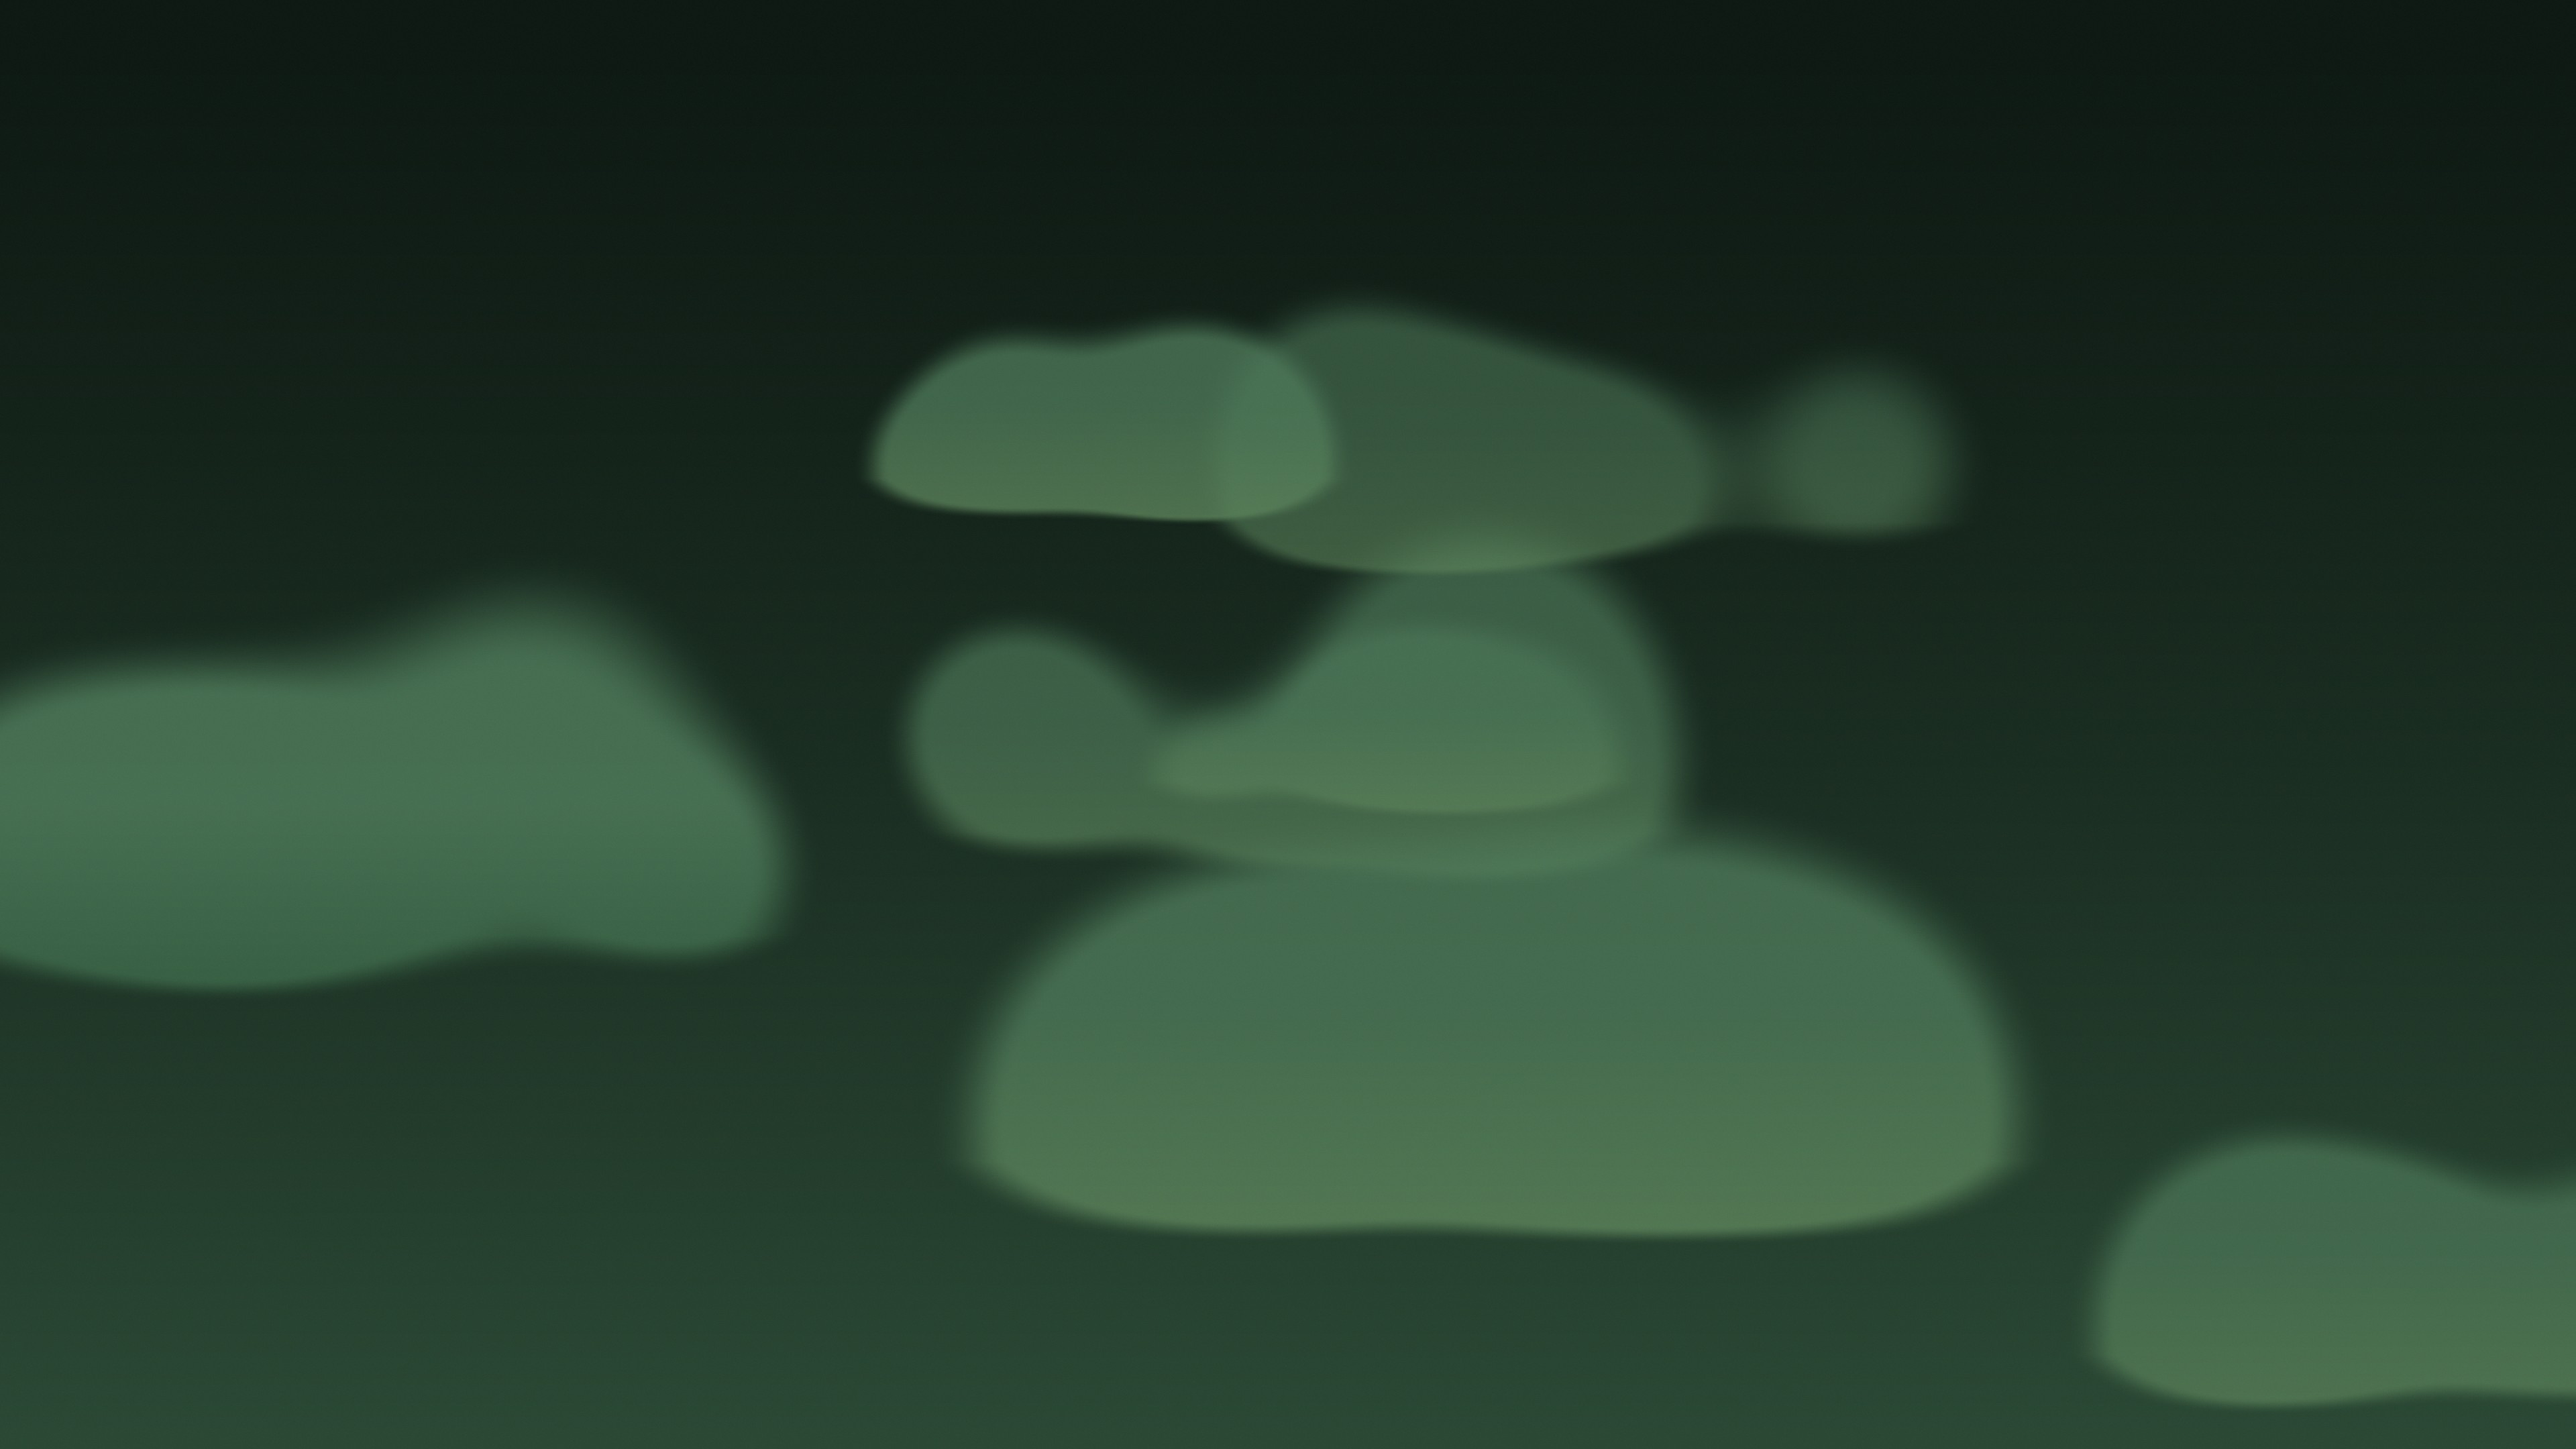
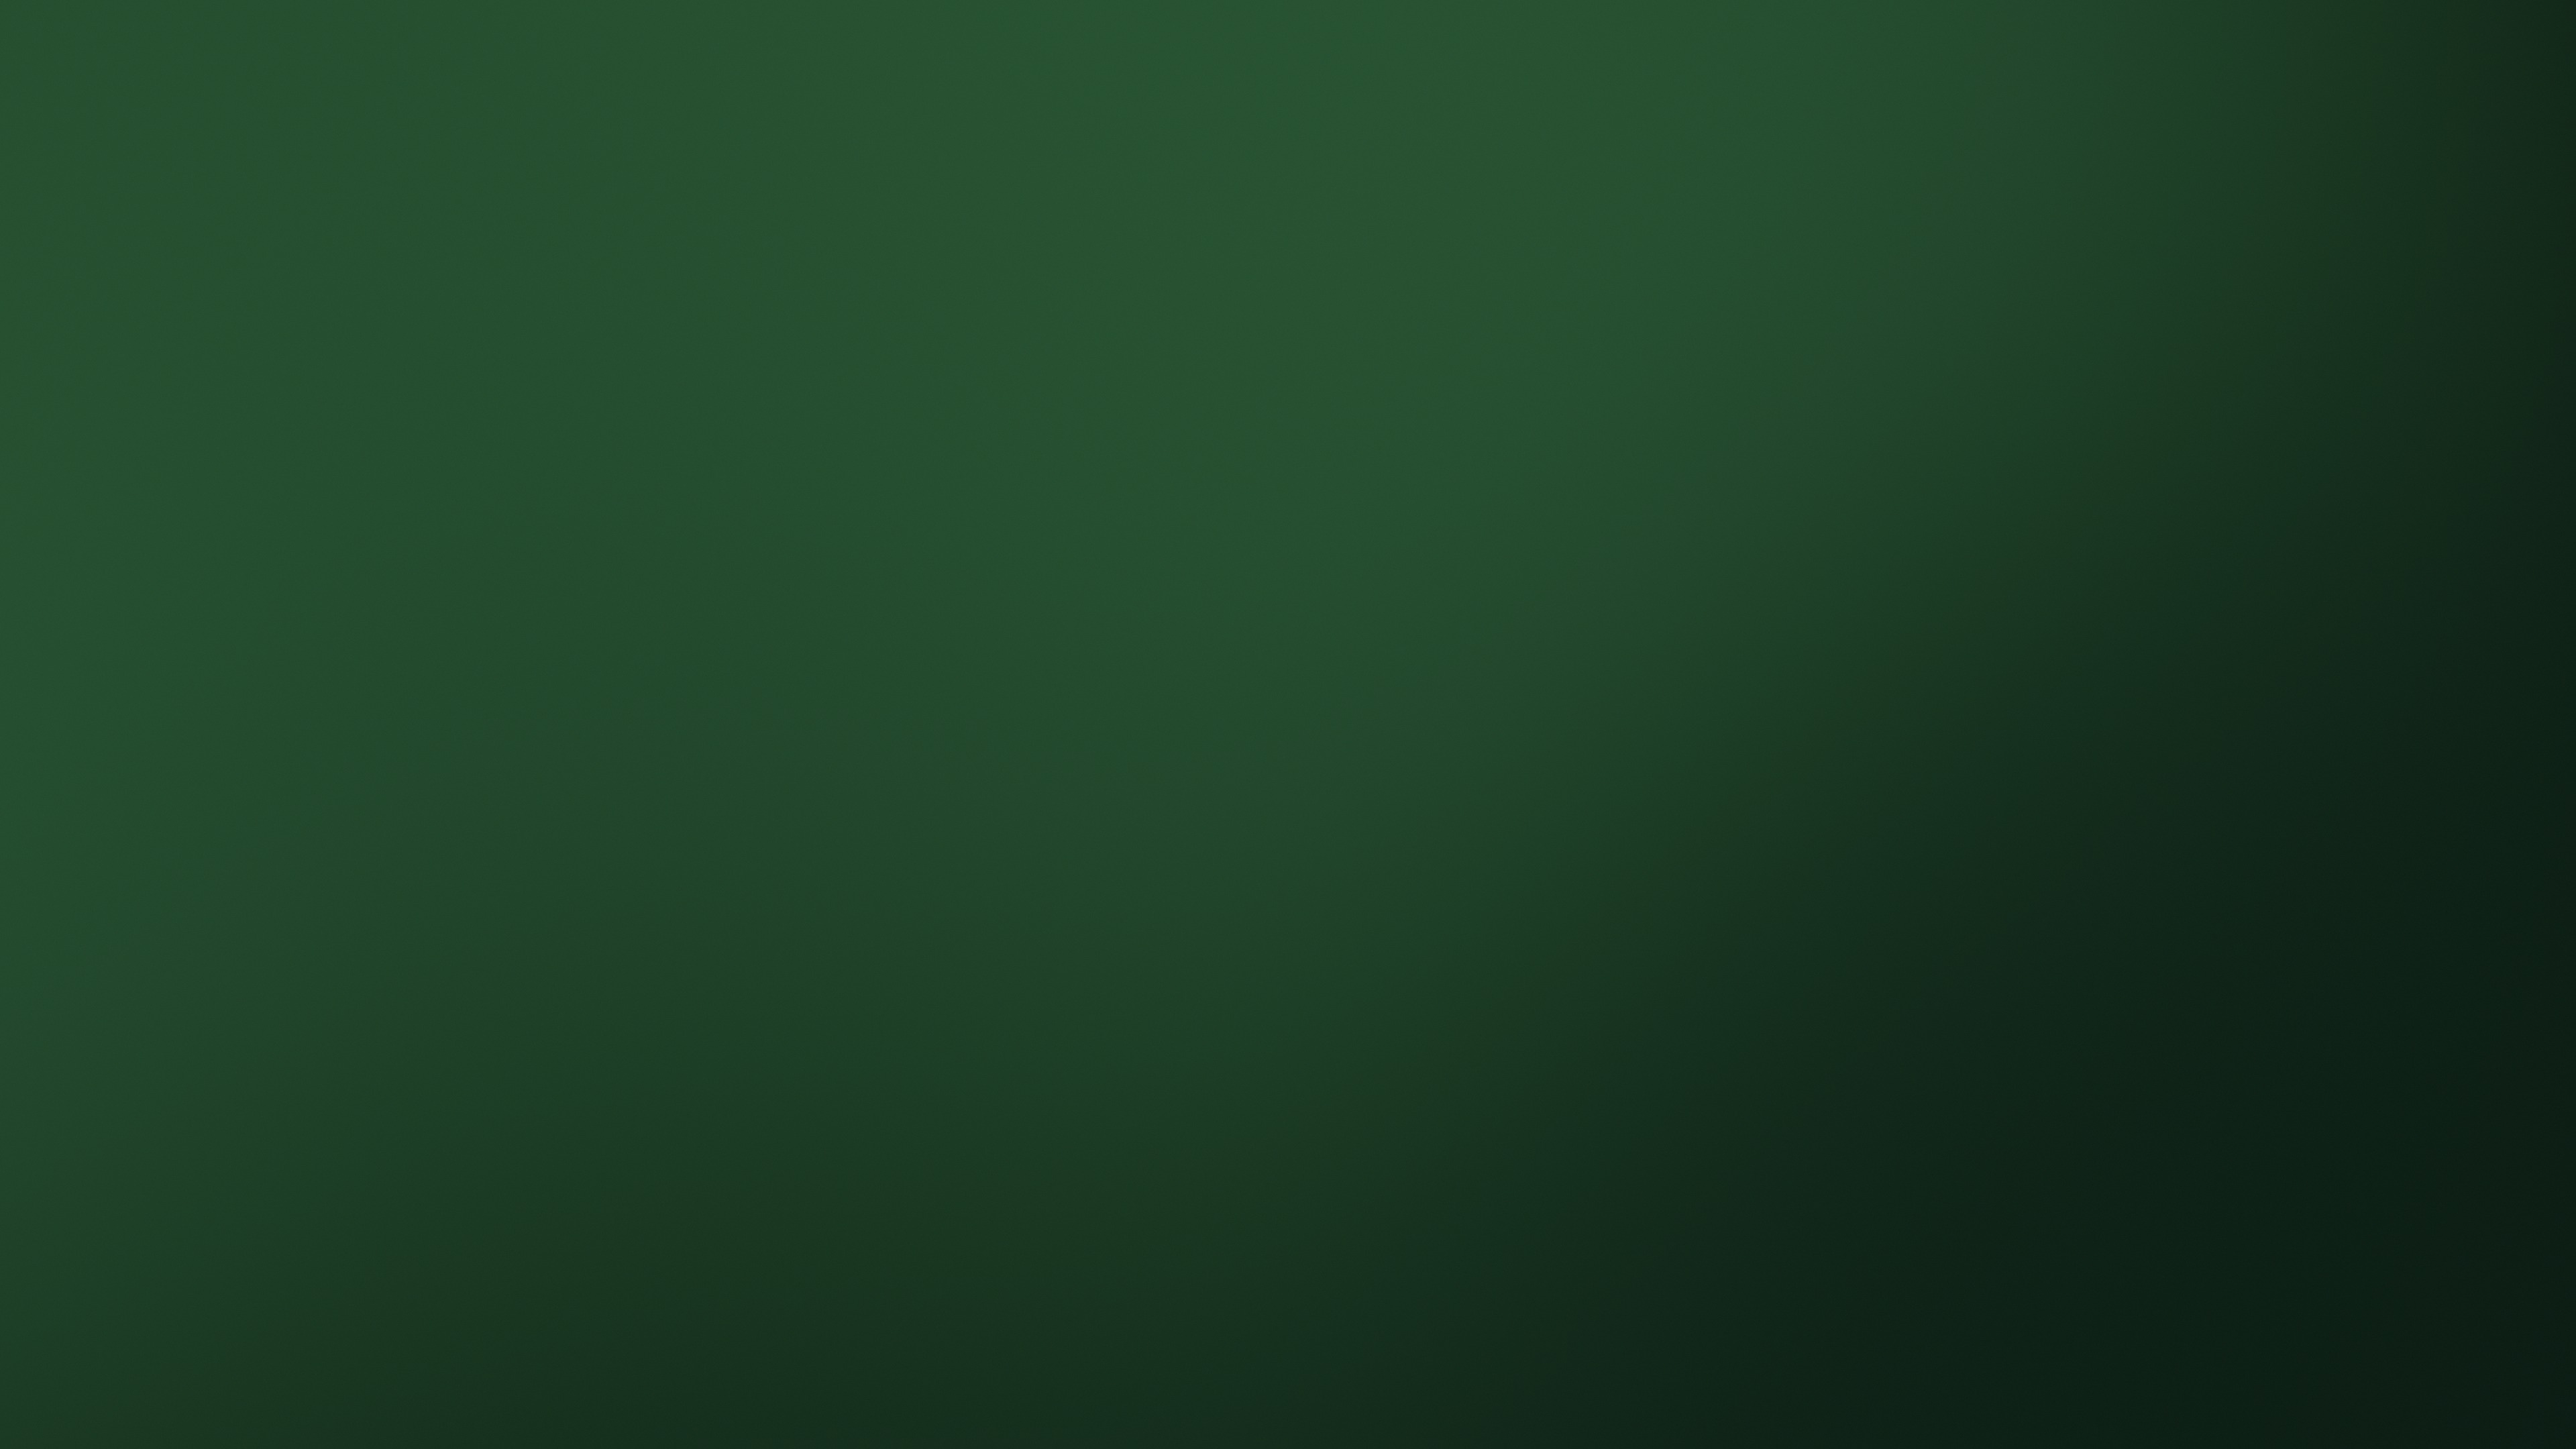
Preview: wallpapers are soft blended gradients now

diff --git a/media/wallpapers/make.py b/media/wallpapers/make.py
@@ -1,64 +1,55 @@
-# The free wallpapers on the PoDee page, drawn in code: a soft sky of blurred clouds in each palette.
-# python -X utf8 media/wallpapers/make.py  ->  <name>.jpg (3840x2160) and <name>-small.jpg (960x540)
+# PoDee's free wallpapers: soft blended gradients, 3840x2160, drawn in code.
+# Each palette goes with one island and companion on the site (light ones with glass and PoDy,
+# dark ones with the black island and the cat, violet with the Enderman, icy with the Ghast).
+# python -X utf8 make.py  ->  <name>.jpg and <name>-small.jpg
 import os
 import numpy as np
 from PIL import Image
 
-os.chdir(os.path.dirname(os.path.abspath(__file__)))
 W, H = 3840, 2160
-# name: top of the sky, bottom of the sky, the clouds' colours
+HERE = os.path.dirname(os.path.abspath(__file__))
+
 WALLS = {
-    "mint": ("#d6f2e9", "#5fa896", ["#ffffff", "#b7e6d8", "#8fd3bf"]),
-    "sky": ("#e3eef4", "#7fb0c8", ["#ffffff", "#f4f8fa", "#b9d6e4"]),
-    "peach": ("#ffe6cf", "#e2846e", ["#fff4e6", "#ffd0b0", "#f2a48c"]),
-    "lavender": ("#ece6fa", "#7f72bd", ["#ffffff", "#d6ccf3", "#a99be0"]),
-    "night": ("#0a1216", "#1b3438", ["#5c9f92", "#1f4f52", "#27445e"]),
-    "sand": ("#f6ecd8", "#bfa47a", ["#fffaf0", "#eedcb8", "#d9c095"]),
-    "end": ("#0d0916", "#2a1d40", ["#4b3a6e", "#2e2246", "#5a4a85"]),
-    "snow": ("#eef5f8", "#a9c4d1", ["#ffffff", "#f4f9fb", "#d6e6ee"]),
-    "moss": ("#0f1a14", "#2c4a36", ["#4f7a5a", "#2f5a3d", "#6a8f5f"]),
+    "mint": ("#e8f5ef", ["#7fd6b9", "#bfeee0", "#9ccfe8", "#f8e2c4", "#5ec2a2", "#e3f6d8"]),
+    "night": ("#05090b", ["#0f4a44", "#1a2a5c", "#062022", "#331f5c", "#127056", "#0a1430"]),
+    "sand": ("#f7ead8", ["#efc391", "#fbe7cc", "#e4ac86", "#fff4e6", "#f2cfa0", "#e9b8a4"]),
+    "peach": ("#ffe9dc", ["#ffb08f", "#ffd7bd", "#f48f86", "#ffe7c8", "#f7a3b5", "#ffc6a0"]),
+    "sky": ("#e6f1f8", ["#8fc4ea", "#d4ebf8", "#9fb4ee", "#eef7fc", "#7db7e3", "#bfe1f2"]),
+    "lavender": ("#efeafb", ["#b9a6f0", "#e6defb", "#9f93e6", "#f6cfe6", "#cdb9f6", "#a8c0f0"]),
+    "end": ("#09060f", ["#3a1d72", "#140a2a", "#5b2a9a", "#0b0718", "#7a3fb0", "#24124a"]),
+    "snow": ("#f2f7fa", ["#cfe3f0", "#ffffff", "#b9d3e5", "#eef5fa", "#d5ddf2", "#f7fbfd"]),
+    "moss": ("#0a120e", ["#24502f", "#0d2016", "#356a42", "#0a1610", "#2f5c3a", "#16341f"]),
 }
 
 
-def rgb(h):
-    return np.array([int(h[i:i + 2], 16) for i in (1, 3, 5)], float)
+def lin(hexc):
+    c = np.array([int(hexc[i:i + 2], 16) for i in (1, 3, 5)], dtype=np.float32) / 255
+    return np.where(c <= 0.04045, c / 12.92, ((c + 0.055) / 1.055) ** 2.4)
 
 
-def sky(top, bottom, clouds, seed, stars=False):
-    rnd = np.random.default_rng(seed)
-    w, h = 960, 540  # drawn at a quarter size, then enlarged: every edge stays soft
-    y, x = np.mgrid[0:h, 0:w] / h
-    t = (y ** 1.3)[..., None]
-    img = rgb(top) * (1 - t) + rgb(bottom) * t
-    # each cloud is a cluster of round puffs; their summed density, cut softly, gives a puffy edge
-    for _ in range(rnd.integers(6, 10)):
-        cx, cy = rnd.uniform(-.1, w / h + .1), rnd.uniform(.3, 1.0)  # the top stays clear for the island
-        size = rnd.uniform(.05, .11) * (0.7 + cy * .6)
-        d = np.zeros((h, w))
-        for _ in range(rnd.integers(6, 12)):
-            px, py = cx + rnd.uniform(-2.6, 2.6) * size, cy - abs(rnd.normal(0, size * .6))
-            r = size * rnd.uniform(.7, 1.5)
-            d += np.exp(-(((x - px) ** 2 + (y - py) ** 2) / r ** 2))
-        d *= np.clip((cy + size * .5 - y) / (size * .6), 0, 1)  # a flat belly, like a real cumulus
-        a = np.clip((d - .35) / .6, 0, 1)
-        a = (a * a * (3 - 2 * a))[..., None] * rnd.uniform(.55, .9)
-        col = rgb(clouds[0])
-        shade = rgb(clouds[rnd.integers(1, len(clouds))])
-        # the cloud's belly is in shade, its top in the light
-        k = np.clip((y - cy + size) / (size * 2.2), 0, 1)[..., None]
-        img = img * (1 - a) + (col * (1 - k) + shade * k) * a
-    if stars:
-        sy, sx = rnd.uniform(0, .55, 160), rnd.uniform(0, w / h, 160)
-        for px, py, b in zip(sx, sy, rnd.uniform(.3, 1, 160)):
-            img += (b * 200 * np.exp(-(((x - px) ** 2 + (y - py) ** 2) / .0012 ** 2)))[..., None] * (1 - t)
-    big = np.asarray(Image.fromarray(img.clip(0, 255).astype(np.uint8)).resize((W, H), Image.BICUBIC), float)
-    # a whisper of noise keeps the gradients from banding
-    big += np.random.default_rng(seed + 1).normal(0, 1.2, big.shape)
-    return Image.fromarray(big.clip(0, 255).astype(np.uint8))
+def srgb(l):
+    return np.where(l <= 0.0031308, l * 12.92, 1.055 * np.clip(l, 0, 1) ** (1 / 2.4) - 0.055)
 
 
-for i, (name, (top, bottom, clouds)) in enumerate(WALLS.items()):
-    im = sky(top, bottom, clouds, 7 + i * 13, stars=name in ("night", "end"))
-    im.save(f"{name}.jpg", quality=90, optimize=True, progressive=True)
-    im.resize((960, 540), Image.LANCZOS).save(f"{name}-small.jpg", quality=84, optimize=True, progressive=True)
-    print(name, os.path.getsize(f"{name}.jpg") // 1024, "KB")
+ys, xs = np.mgrid[0:H, 0:W].astype(np.float32)
+xs /= W
+ys /= W  # the same scale on both axes, so the blobs stay round
+
+for i, (name, (base, colors)) in enumerate(WALLS.items()):
+    rng = np.random.default_rng(17 + i * 31)
+    # the blend is done in linear light, so the mixes stay clean instead of going muddy
+    acc = lin(base)[None, None, :] * 0.12
+    total = np.full((H, W), 0.12, dtype=np.float32)
+    for c in colors:
+        cx, cy = rng.uniform(-0.05, 1.05), rng.uniform(-0.02, 0.6)
+        r = rng.uniform(0.15, 0.27)
+        w = np.exp(-((xs - cx) ** 2 + (ys - cy) ** 2) / (2 * r * r)).astype(np.float32)
+        acc = acc + w[..., None] * lin(c)[None, None, :]
+        total += w
+    img = srgb(acc / total[..., None]) * 255
+    # a little grain hides the banding a smooth gradient gets in 8 bits
+    img += rng.normal(0, 1.1, img.shape).astype(np.float32)
+    im = Image.fromarray(np.clip(img + 0.5, 0, 255).astype(np.uint8))
+    im.save(os.path.join(HERE, f"{name}.jpg"), quality=92, optimize=True, progressive=True)
+    im.resize((640, 360), Image.LANCZOS).save(os.path.join(HERE, f"{name}-small.jpg"), quality=88)
+    print(name, os.path.getsize(os.path.join(HERE, f"{name}.jpg")) // 1024, "KB")
